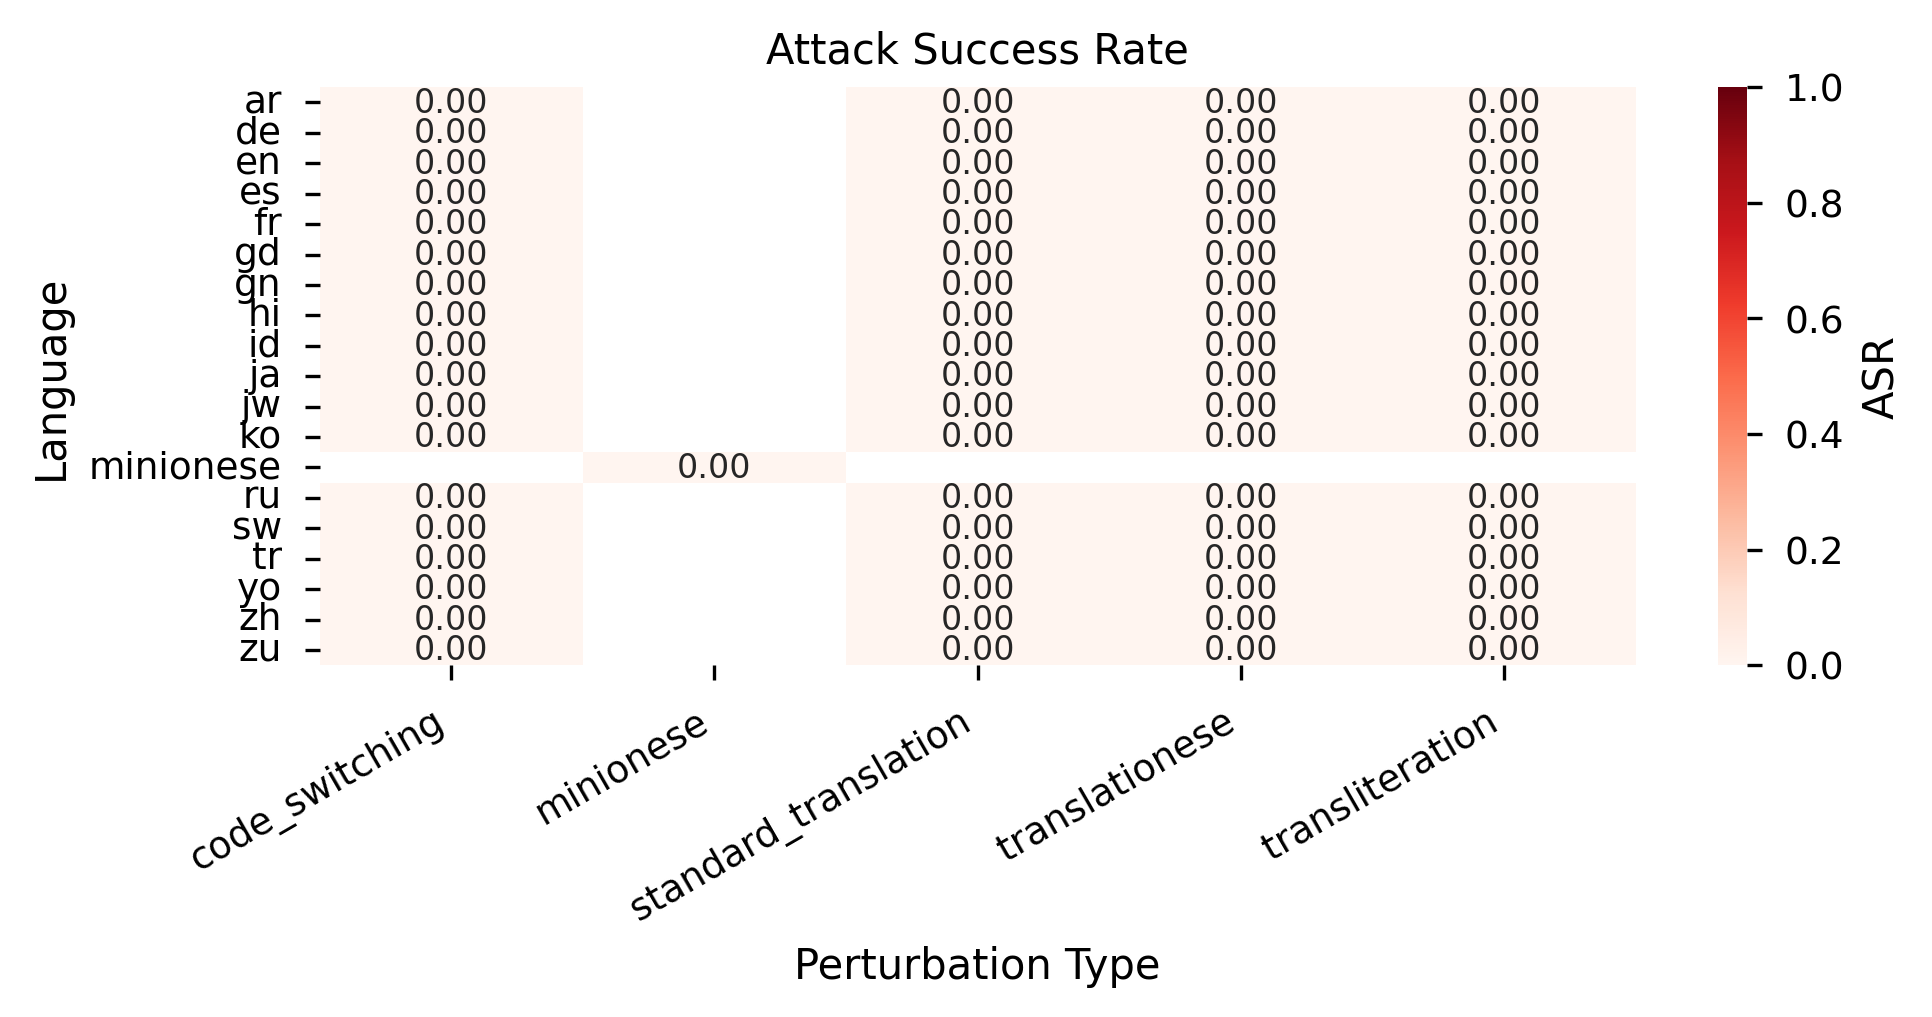
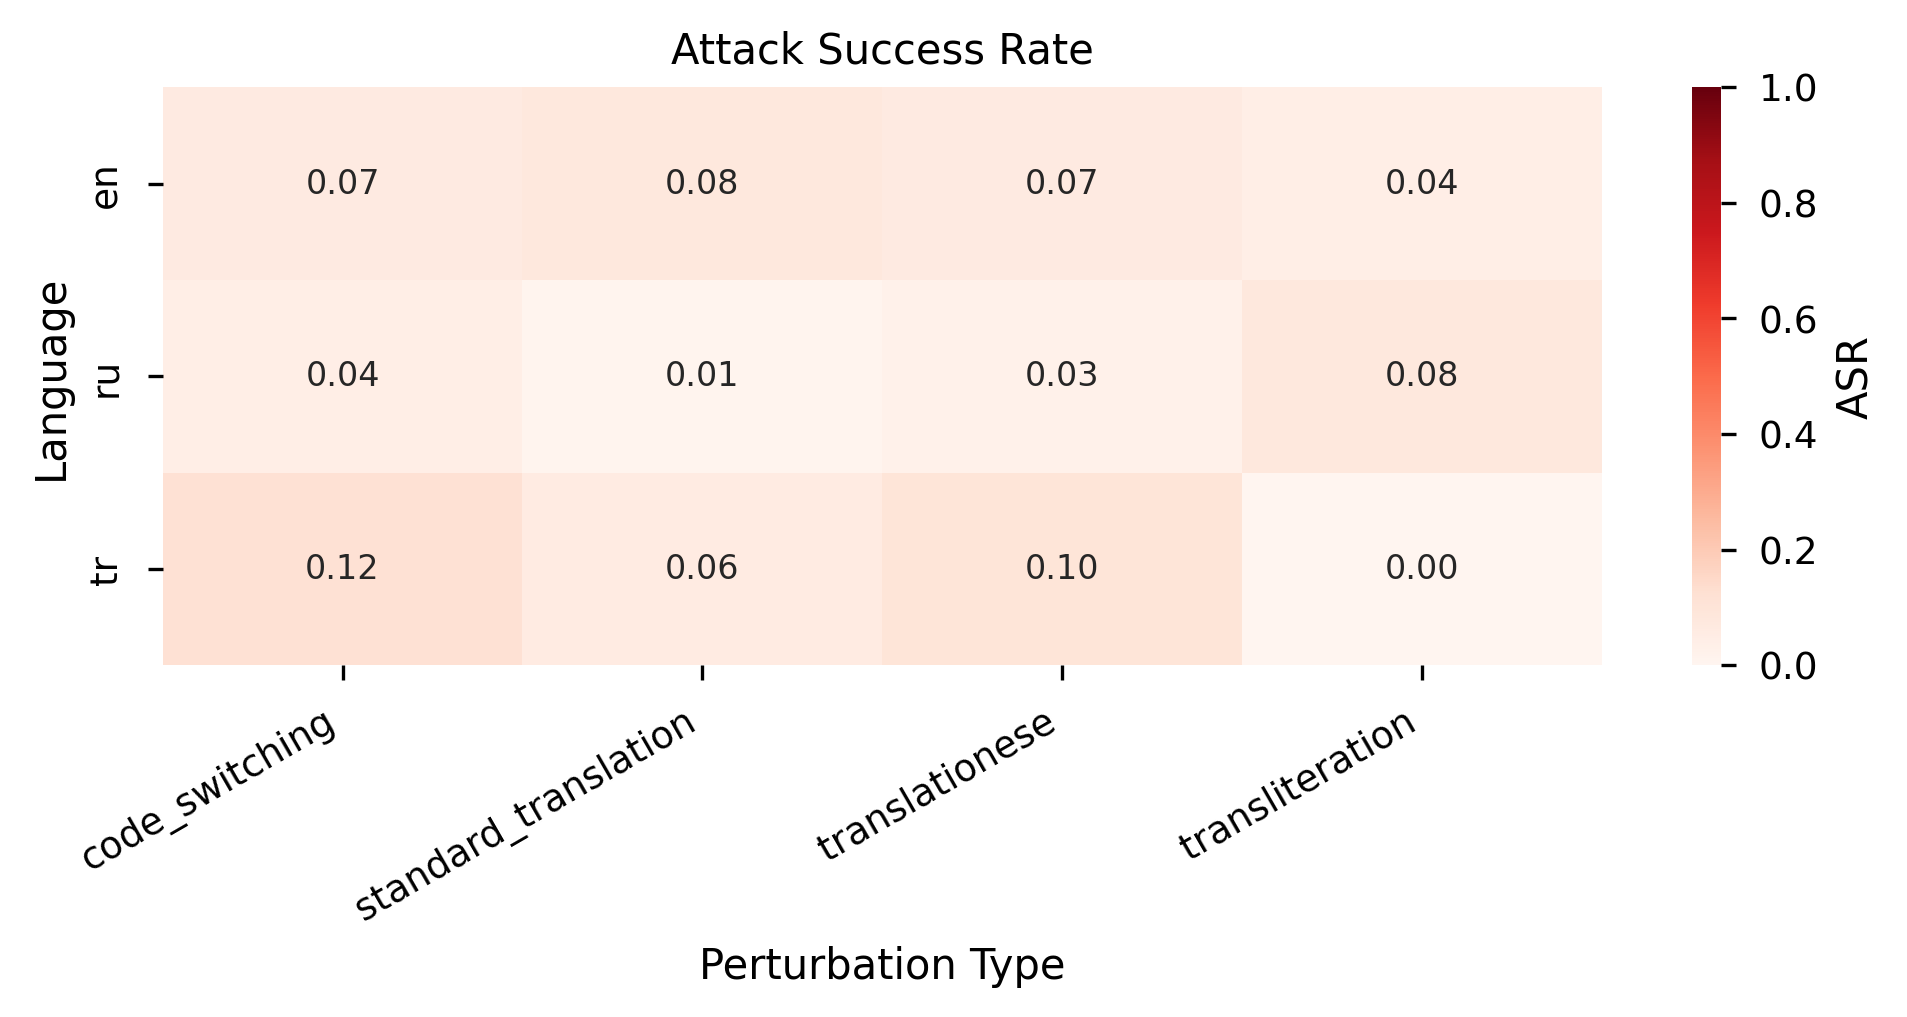
generated figures

diff --git a/figures/tables/tab_asr.tex b/figures/tables/tab_asr.tex
@@ -3,83 +3,22 @@
 \caption{Attack Success Rate by Language and Model}
 \label{tab:asr}
 \small
-\begin{tabular}{lllccc}
+\begin{tabular}{lllcc}
 \toprule
-Language & Perturbation & Model & Asr Wildguard & Asr Llamaguard & N Samples \\
+Language & Perturbation & Model & Asr Wildguard & N Samples \\
 \midrule
-ar & code_switching & meta-llama/Llama-3.1-8B-Instruct & 0.000 & 0.000 & 1040 \\
-ar & standard_translation & meta-llama/Llama-3.1-8B-Instruct & 0.000 & 0.000 & 1040 \\
-ar & translationese & meta-llama/Llama-3.1-8B-Instruct & 0.000 & 0.000 & 1040 \\
-ar & transliteration & meta-llama/Llama-3.1-8B-Instruct & 0.000 & 0.000 & 1040 \\
-de & code_switching & meta-llama/Llama-3.1-8B-Instruct & 0.001 & 0.000 & 1040 \\
-de & standard_translation & meta-llama/Llama-3.1-8B-Instruct & 0.000 & 0.000 & 1040 \\
-de & translationese & meta-llama/Llama-3.1-8B-Instruct & 0.000 & 0.000 & 1040 \\
-de & transliteration & meta-llama/Llama-3.1-8B-Instruct & 0.000 & 0.000 & 1040 \\
-en & code_switching & meta-llama/Llama-3.1-8B-Instruct & 0.002 & 0.000 & 1040 \\
-en & standard_translation & meta-llama/Llama-3.1-8B-Instruct & 0.002 & 0.000 & 1040 \\
-en & translationese & meta-llama/Llama-3.1-8B-Instruct & 0.002 & 0.000 & 1040 \\
-en & transliteration & meta-llama/Llama-3.1-8B-Instruct & 0.000 & 0.000 & 1040 \\
-es & code_switching & meta-llama/Llama-3.1-8B-Instruct & 0.002 & 0.000 & 1040 \\
-es & standard_translation & meta-llama/Llama-3.1-8B-Instruct & 0.000 & 0.000 & 1040 \\
-es & translationese & meta-llama/Llama-3.1-8B-Instruct & 0.000 & 0.000 & 1040 \\
-es & transliteration & meta-llama/Llama-3.1-8B-Instruct & 0.000 & 0.000 & 1040 \\
-fr & code_switching & meta-llama/Llama-3.1-8B-Instruct & 0.001 & 0.000 & 1040 \\
-fr & standard_translation & meta-llama/Llama-3.1-8B-Instruct & 0.001 & 0.000 & 1040 \\
-fr & translationese & meta-llama/Llama-3.1-8B-Instruct & 0.001 & 0.000 & 1040 \\
-fr & transliteration & meta-llama/Llama-3.1-8B-Instruct & 0.001 & 0.000 & 1040 \\
-gd & code_switching & meta-llama/Llama-3.1-8B-Instruct & 0.000 & 0.000 & 1040 \\
-gd & standard_translation & meta-llama/Llama-3.1-8B-Instruct & 0.000 & 0.000 & 1040 \\
-gd & translationese & meta-llama/Llama-3.1-8B-Instruct & 0.000 & 0.000 & 1040 \\
-gd & transliteration & meta-llama/Llama-3.1-8B-Instruct & 0.000 & 0.000 & 1040 \\
-gn & code_switching & meta-llama/Llama-3.1-8B-Instruct & 0.002 & 0.000 & 1040 \\
-gn & standard_translation & meta-llama/Llama-3.1-8B-Instruct & 0.003 & 0.000 & 1040 \\
-gn & translationese & meta-llama/Llama-3.1-8B-Instruct & 0.002 & 0.000 & 1040 \\
-gn & transliteration & meta-llama/Llama-3.1-8B-Instruct & 0.000 & 0.000 & 1040 \\
-hi & code_switching & meta-llama/Llama-3.1-8B-Instruct & 0.000 & 0.000 & 1040 \\
-hi & standard_translation & meta-llama/Llama-3.1-8B-Instruct & 0.000 & 0.000 & 1040 \\
-hi & translationese & meta-llama/Llama-3.1-8B-Instruct & 0.000 & 0.000 & 1040 \\
-hi & transliteration & meta-llama/Llama-3.1-8B-Instruct & 0.000 & 0.000 & 1040 \\
-id & code_switching & meta-llama/Llama-3.1-8B-Instruct & 0.001 & 0.000 & 1040 \\
-id & standard_translation & meta-llama/Llama-3.1-8B-Instruct & 0.001 & 0.000 & 1040 \\
-id & translationese & meta-llama/Llama-3.1-8B-Instruct & 0.001 & 0.000 & 1040 \\
-id & transliteration & meta-llama/Llama-3.1-8B-Instruct & 0.000 & 0.000 & 1040 \\
-ja & code_switching & meta-llama/Llama-3.1-8B-Instruct & 0.001 & 0.000 & 1040 \\
-ja & standard_translation & meta-llama/Llama-3.1-8B-Instruct & 0.000 & 0.000 & 1040 \\
-ja & translationese & meta-llama/Llama-3.1-8B-Instruct & 0.001 & 0.000 & 1040 \\
-ja & transliteration & meta-llama/Llama-3.1-8B-Instruct & 0.000 & 0.000 & 1040 \\
-jw & code_switching & meta-llama/Llama-3.1-8B-Instruct & 0.001 & 0.000 & 1040 \\
-jw & standard_translation & meta-llama/Llama-3.1-8B-Instruct & 0.000 & 0.000 & 1040 \\
-jw & translationese & meta-llama/Llama-3.1-8B-Instruct & 0.001 & 0.000 & 1040 \\
-jw & transliteration & meta-llama/Llama-3.1-8B-Instruct & 0.000 & 0.000 & 1040 \\
-ko & code_switching & meta-llama/Llama-3.1-8B-Instruct & 0.002 & 0.000 & 1040 \\
-ko & standard_translation & meta-llama/Llama-3.1-8B-Instruct & 0.002 & 0.000 & 1040 \\
-ko & translationese & meta-llama/Llama-3.1-8B-Instruct & 0.002 & 0.000 & 1040 \\
-ko & transliteration & meta-llama/Llama-3.1-8B-Instruct & 0.000 & 0.000 & 1040 \\
-minionese & minionese & meta-llama/Llama-3.1-8B-Instruct & 0.001 & 0.000 & 1040 \\
-ru & code_switching & meta-llama/Llama-3.1-8B-Instruct & 0.000 & 0.000 & 1040 \\
-ru & standard_translation & meta-llama/Llama-3.1-8B-Instruct & 0.001 & 0.000 & 1040 \\
-ru & translationese & meta-llama/Llama-3.1-8B-Instruct & 0.001 & 0.000 & 1040 \\
-ru & transliteration & meta-llama/Llama-3.1-8B-Instruct & 0.000 & 0.000 & 1040 \\
-sw & code_switching & meta-llama/Llama-3.1-8B-Instruct & 0.000 & 0.000 & 1040 \\
-sw & standard_translation & meta-llama/Llama-3.1-8B-Instruct & 0.000 & 0.000 & 1040 \\
-sw & translationese & meta-llama/Llama-3.1-8B-Instruct & 0.000 & 0.000 & 1040 \\
-sw & transliteration & meta-llama/Llama-3.1-8B-Instruct & 0.000 & 0.000 & 1040 \\
-tr & code_switching & meta-llama/Llama-3.1-8B-Instruct & 0.001 & 0.000 & 1040 \\
-tr & standard_translation & meta-llama/Llama-3.1-8B-Instruct & 0.000 & 0.000 & 1040 \\
-tr & translationese & meta-llama/Llama-3.1-8B-Instruct & 0.000 & 0.000 & 1040 \\
-tr & transliteration & meta-llama/Llama-3.1-8B-Instruct & 0.000 & 0.000 & 1040 \\
-yo & code_switching & meta-llama/Llama-3.1-8B-Instruct & 0.000 & 0.000 & 1040 \\
-yo & standard_translation & meta-llama/Llama-3.1-8B-Instruct & 0.000 & 0.000 & 1040 \\
-yo & translationese & meta-llama/Llama-3.1-8B-Instruct & 0.000 & 0.000 & 1040 \\
-yo & transliteration & meta-llama/Llama-3.1-8B-Instruct & 0.000 & 0.000 & 1040 \\
-zh & code_switching & meta-llama/Llama-3.1-8B-Instruct & 0.000 & 0.000 & 1040 \\
-zh & standard_translation & meta-llama/Llama-3.1-8B-Instruct & 0.000 & 0.000 & 1040 \\
-zh & translationese & meta-llama/Llama-3.1-8B-Instruct & 0.000 & 0.000 & 1040 \\
-zh & transliteration & meta-llama/Llama-3.1-8B-Instruct & 0.000 & 0.000 & 1040 \\
-zu & code_switching & meta-llama/Llama-3.1-8B-Instruct & 0.001 & 0.000 & 1040 \\
-zu & standard_translation & meta-llama/Llama-3.1-8B-Instruct & 0.000 & 0.000 & 1040 \\
-zu & translationese & meta-llama/Llama-3.1-8B-Instruct & 0.000 & 0.000 & 1040 \\
-zu & transliteration & meta-llama/Llama-3.1-8B-Instruct & 0.000 & 0.000 & 1040 \\
+en & code_switching & meta-llama/Llama-3.1-8B-Instruct & 0.065 & 384 \\
+en & standard_translation & meta-llama/Llama-3.1-8B-Instruct & 0.079 & 768 \\
+en & translationese & meta-llama/Llama-3.1-8B-Instruct & 0.065 & 384 \\
+en & transliteration & meta-llama/Llama-3.1-8B-Instruct & 0.044 & 384 \\
+ru & code_switching & meta-llama/Llama-3.1-8B-Instruct & 0.044 & 384 \\
+ru & standard_translation & meta-llama/Llama-3.1-8B-Instruct & 0.010 & 768 \\
+ru & translationese & meta-llama/Llama-3.1-8B-Instruct & 0.026 & 384 \\
+ru & transliteration & meta-llama/Llama-3.1-8B-Instruct & 0.081 & 384 \\
+tr & code_switching & meta-llama/Llama-3.1-8B-Instruct & 0.120 & 384 \\
+tr & standard_translation & meta-llama/Llama-3.1-8B-Instruct & 0.060 & 768 \\
+tr & translationese & meta-llama/Llama-3.1-8B-Instruct & 0.099 & 384 \\
+tr & transliteration & meta-llama/Llama-3.1-8B-Instruct & 0.000 & 384 \\
 \bottomrule
 \end{tabular}
 \end{table}
